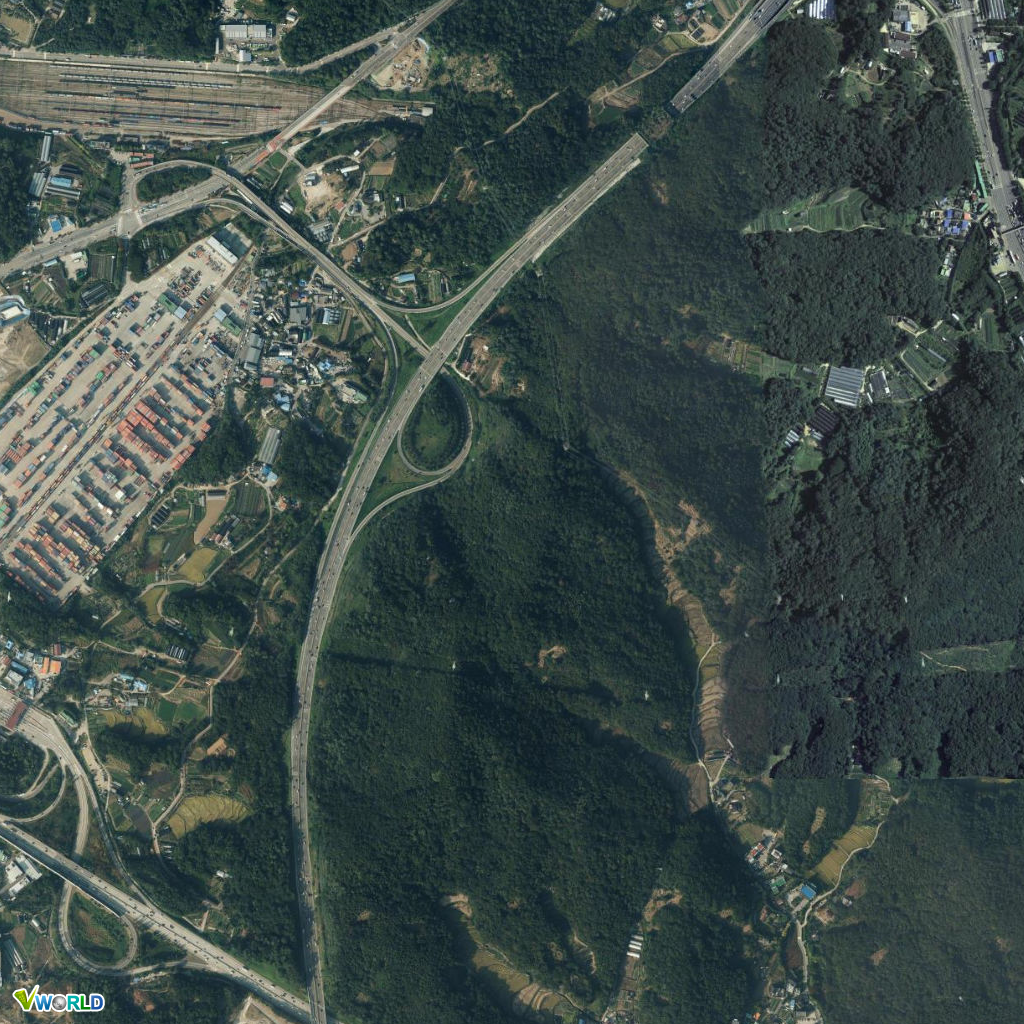
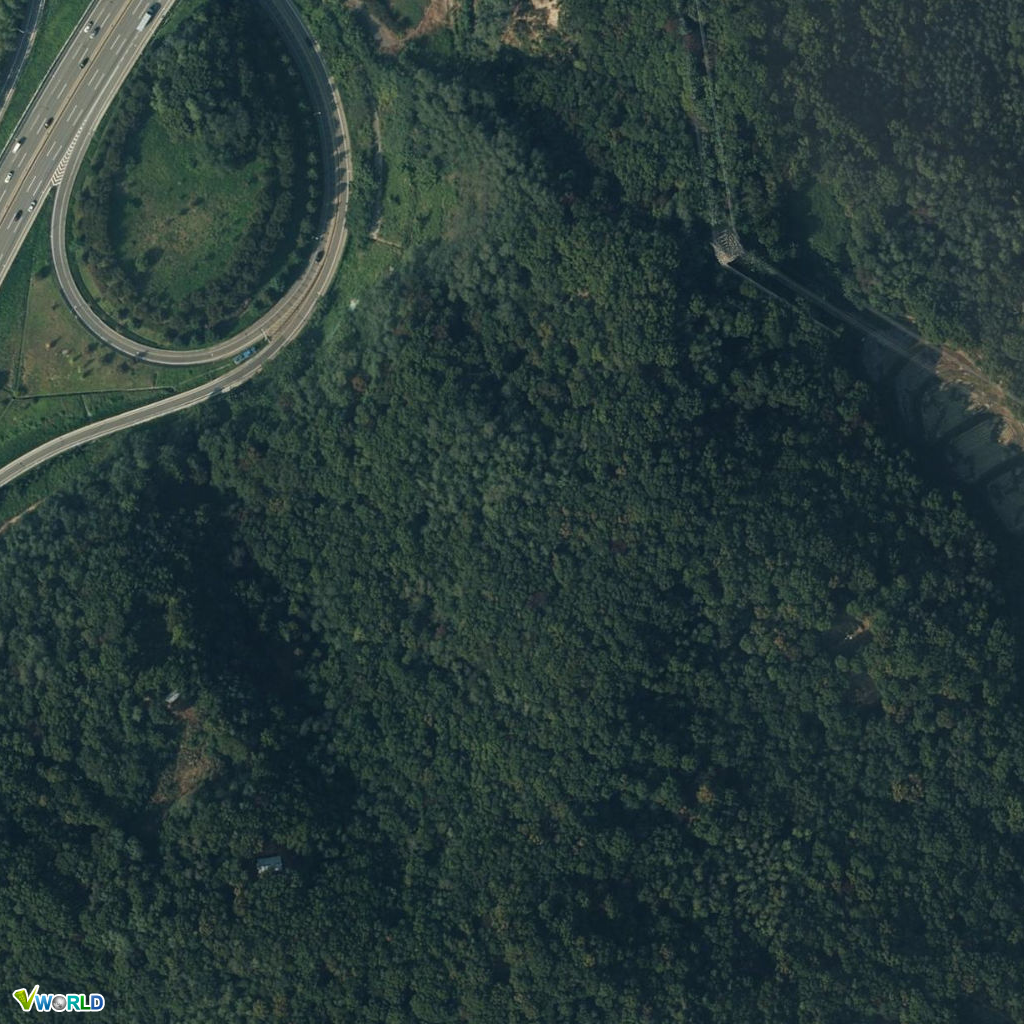
final

diff --git a/main.py b/main.py
@@ -1,16 +1,18 @@
-from flask import Flask, redirect, url_for, request, jsonify
+from flask import Flask, redirect, url_for, request, jsonify, make_response, send_file
 from get_image import get_image
-
-app = Flask(__name__)
 
 import os
 import torch
+import io
 
 import numpy as np
 from PIL import Image
 
 from unet import UnetPipeline
+from unet.util import cat_to_rgb
 from logic import logic
+
+app = Flask(__name__)
 
 device = torch.device('cuda')
 unet = UnetPipeline()
@@ -46,8 +48,13 @@ def image():
         file.close()
         input_img = np.array(Image.open('img.png').convert('RGB'))[:,:,:3]
         res = unet.predict(input_img, batch_size = 8)
-        res = res.tolist()
-        return jsonify(res)#return as 2d list
+        res = cat_to_rgb(res)
+        im = Image.fromarray(res.astype('uint8'))
+        file_object = io.BytesIO()
+        im.save(file_object,"PNG")
+        file_object.seek(0)
+
+        return send_file(file_object, mimetype='image/png')#jsonify(res)#return as 2d list
 
     else :
          return 'error'

diff --git a/get_image.py b/get_image.py
@@ -11,7 +11,7 @@ def get_image(x, y):
     request="getmap"
     service="image"
     key = "38E7C820-0357-3E0B-83F2-731A5D06E6A6"
-    zoom="16"
+    zoom="18"
     size="1024,1024"
     crs="EPSG:4326"
     basemap="PHOTO"
